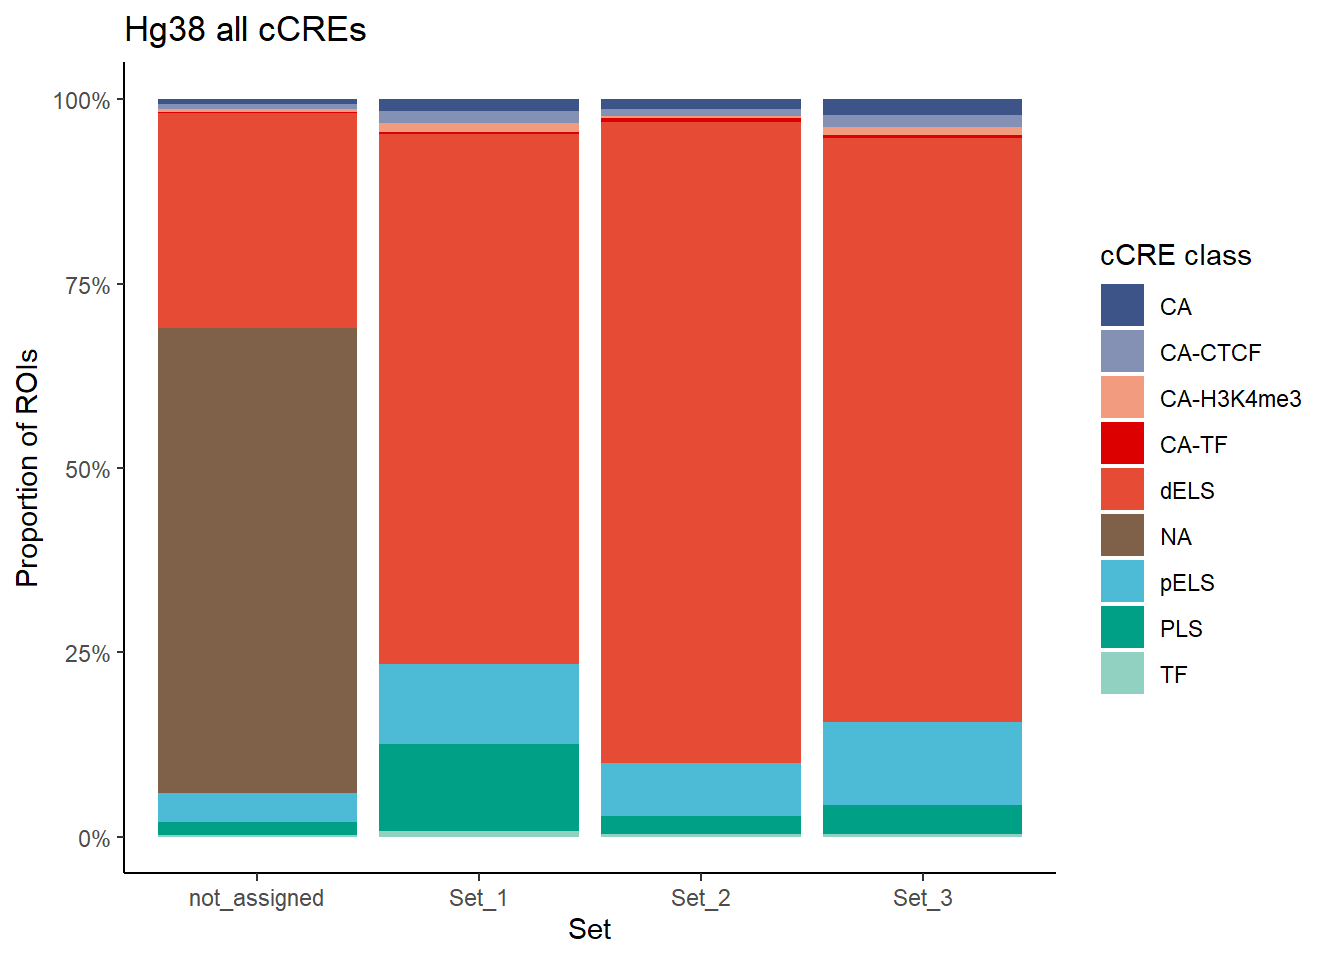
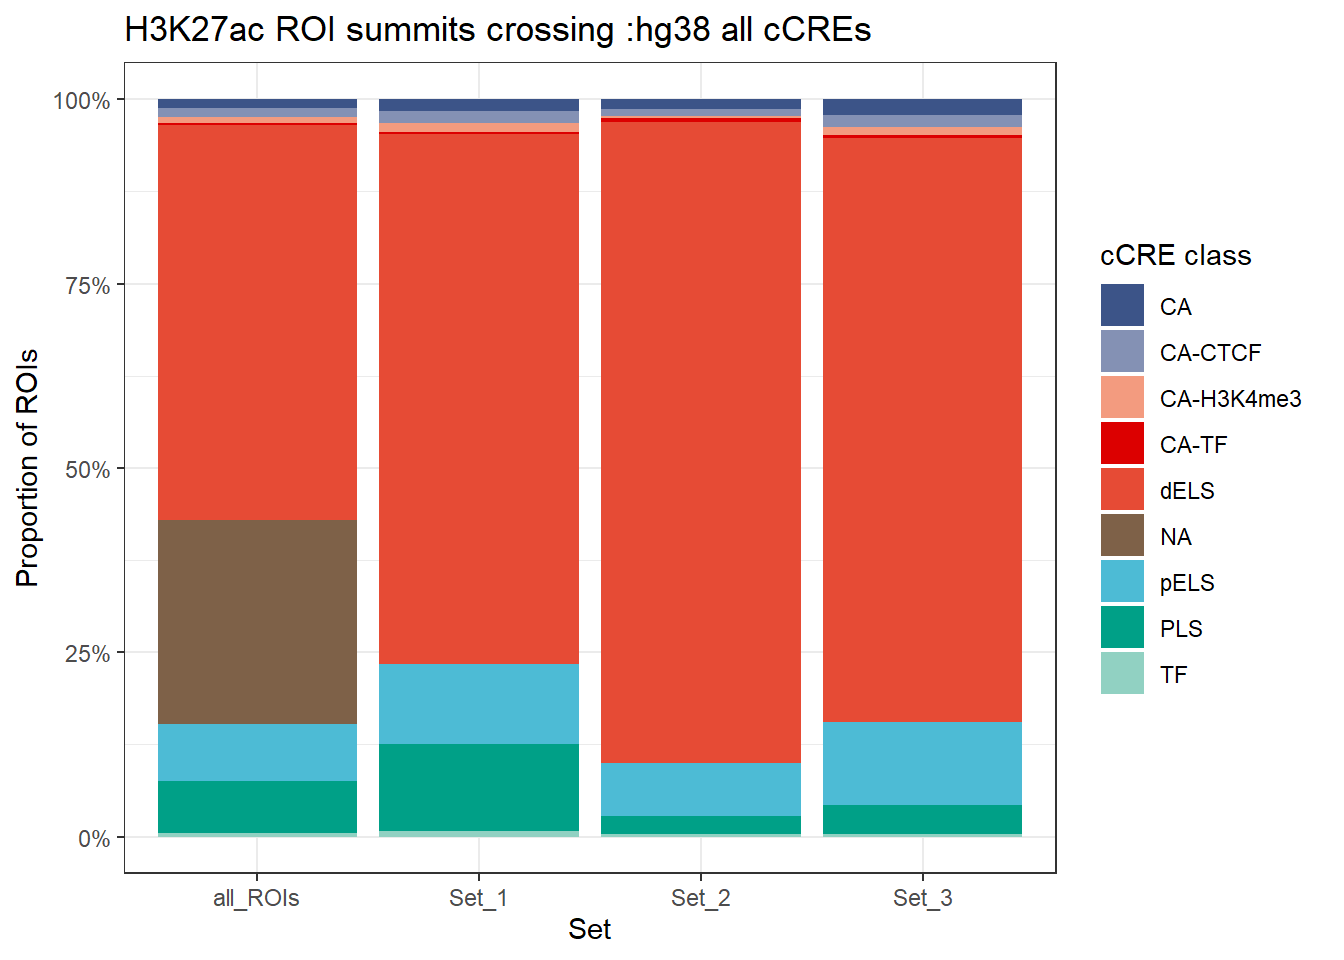
Build site.

diff --git a/docs/H3K27ac_cisRE.html b/docs/H3K27ac_cisRE.html
@@ -521,15 +521,15 @@ project makes it easier to run your code on other machines.</p>
 <div class="panel panel-default">
 <div class="panel-heading">
 <p class="panel-title">
-<a data-toggle="collapse" data-parent="#workflowr-checks" href="#strongRepositoryversionstrongahrefhttpsgithubcomreneeisnowhereDXRcontinuetreeea3b358831f4c899f4fc6917f5c2909b8e350921targetblankea3b358a">
+<a data-toggle="collapse" data-parent="#workflowr-checks" href="#strongRepositoryversionstrongahrefhttpsgithubcomreneeisnowhereDXRcontinuetree8d883d6e27c257b00c3ef9e46f101aae8c479e5etargetblank8d883d6a">
 <span class="glyphicon glyphicon-ok text-success"
 aria-hidden="true"></span> <strong>Repository version:</strong>
-<a href="https://github.com/reneeisnowhere/DXR_continue/tree/ea3b358831f4c899f4fc6917f5c2909b8e350921" target="_blank">ea3b358</a>
+<a href="https://github.com/reneeisnowhere/DXR_continue/tree/8d883d6e27c257b00c3ef9e46f101aae8c479e5e" target="_blank">8d883d6</a>
 </a>
 </p>
 </div>
 <div
[2 lines of base64/hex data omitted]
 class="panel-collapse collapse">
 <div class="panel-body">
 <p>
@@ -539,7 +539,7 @@ reproducibility.
 </p>
 <p>
 The results in this page were generated with repository version
-<a href="https://github.com/reneeisnowhere/DXR_continue/tree/ea3b358831f4c899f4fc6917f5c2909b8e350921" target="_blank">ea3b358</a>.
+<a href="https://github.com/reneeisnowhere/DXR_continue/tree/8d883d6e27c257b00c3ef9e46f101aae8c479e5e" target="_blank">8d883d6</a>.
 See the <em>Past versions</em> tab to see a history of the changes made
 to the R Markdown and HTML files.
 </p>
@@ -631,6 +631,40 @@ Message
 </tr>
 </thead>
 <tbody>
+<tr>
+<td>
+Rmd
+</td>
+<td>
+<a href="https://github.com/reneeisnowhere/DXR_continue/blob/8d883d6e27c257b00c3ef9e46f101aae8c479e5e/analysis/H3K27ac_cisRE.Rmd" target="_blank">8d883d6</a>
+</td>
+<td>
+reneeisnowhere
+</td>
+<td>
+2026-02-12
+</td>
+<td>
+wflow_publish("analysis/H3K27ac_cisRE.Rmd")
+</td>
+</tr>
+<tr>
+<td>
+html
+</td>
+<td>
+<a href="https://rawcdn.githack.com/reneeisnowhere/DXR_continue/cdf088cf1569d8a1d61842b5f0eac08f2f8f5b6d/docs/H3K27ac_cisRE.html" target="_blank">cdf088c</a>
+</td>
+<td>
+reneeisnowhere
+</td>
+<td>
+2026-02-12
+</td>
+<td>
+Build site.
+</td>
+</tr>
 <tr>
 <td>
 Rmd
@@ -772,10 +806,13 @@ H3K27ac_cre_df &lt;- tibble(
          cCRE_ID=if_else(is.na(cCRE_ID),&quot;NA&quot;,cCRE_ID),
          cCRE_class=if_else(is.na(cCRE_class),&quot;NA&quot;,cCRE_class))
 
-H3K27ac_cre_counts &lt;- H3K27ac_cre_anno %&gt;% 
+H3K27ac_cre_anno_full&lt;- H3K27ac_cre_anno %&gt;% rbind(H3K27ac_cre_anno %&gt;% mutate(cluster=&quot;all_ROIs&quot;))
+
+H3K27ac_cre_counts &lt;- H3K27ac_cre_anno_full %&gt;% 
   count(cluster, cCRE_class) %&gt;% 
   group_by(cluster) %&gt;% 
-  mutate(percent= n/sum(n))
+  mutate(percent= n/sum(n)) %&gt;% 
+  dplyr::filter(cluster != &quot;not_assigned&quot;)
 
  ggplot(H3K27ac_cre_counts, aes(x = cluster, y = percent, fill = cCRE_class)) +
   geom_col() +
@@ -785,9 +822,46 @@ H3K27ac_cre_counts &lt;- H3K27ac_cre_anno %&gt;%
     x = &quot;Set&quot;,
     fill = &quot;cCRE class&quot;
   ) +
-  theme_classic()+
-     ggtitle(&quot;Hg38 all cCREs&quot;)+scale_fill_cCREs()</code></pre>
+  theme_bw()+
+     ggtitle(&quot;H3K27ac ROI summits crossing :hg38 all cCREs &quot;)+scale_fill_cCREs()</code></pre>
 <p><img src="figure/H3K27ac_cisRE.Rmd/unnamed-chunk-3-1.png" width="672" style="display: block; margin: auto;" /></p>
+<p>
+<button type="button" class="btn btn-default btn-xs btn-workflowr btn-workflowr-fig" data-toggle="collapse" data-target="#fig-unnamed-chunk-3-1">
+Past versions of unnamed-chunk-3-1.png
+</button>
+</p>
+<div id="fig-unnamed-chunk-3-1" class="collapse">
+<div class="table-responsive">
+<table class="table table-condensed table-hover">
+<thead>
+<tr>
+<th>
+Version
+</th>
+<th>
+Author
+</th>
+<th>
+Date
+</th>
+</tr>
+</thead>
+<tbody>
+<tr>
+<td>
+<a href="https://github.com/reneeisnowhere/DXR_continue/blob/cdf088cf1569d8a1d61842b5f0eac08f2f8f5b6d/docs/figure/H3K27ac_cisRE.Rmd/unnamed-chunk-3-1.png" target="_blank">cdf088c</a>
+</td>
+<td>
+reneeisnowhere
+</td>
+<td>
+2026-02-12
+</td>
+</tr>
+</tbody>
+</table>
+</div>
+</div>
 <pre class="r"><code>SCREEN_heart_hg38_cCREs &lt;- import(
   &quot;data/Other_paper_data/SCREEN_LVHEART_F_53_ENCFF417JSF_ENCFF651XRK_ENCFF320IPT_ENCFF440RUS.bed&quot;,
   format = &quot;BED&quot;,
@@ -834,6 +908,43 @@ H3K27ac_heart_cre_anno &lt;- H3K27ac_anno_ROIs$all_H3K27ac %&gt;% as.data.frame(
   theme_classic()+
      ggtitle(&quot;Heart-left ventricle cCREs&quot;)+scale_fill_cCREs()</code></pre>
 <p><img src="figure/H3K27ac_cisRE.Rmd/heart%20cre%20plot-1.png" width="672" style="display: block; margin: auto;" /></p>
+<p>
+<button type="button" class="btn btn-default btn-xs btn-workflowr btn-workflowr-fig" data-toggle="collapse" data-target="#fig-no-spaces-heart-cre-plot-1">
+Past versions of "heart cre plot-1.png"
+</button>
+</p>
+<div id="fig-no-spaces-heart-cre-plot-1" class="collapse">
+<div class="table-responsive">
+<table class="table table-condensed table-hover">
+<thead>
+<tr>
+<th>
+Version
+</th>
+<th>
+Author
+</th>
+<th>
+Date
+</th>
+</tr>
+</thead>
+<tbody>
+<tr>
+<td>
+<a href="https://github.com/reneeisnowhere/DXR_continue/blob/cdf088cf1569d8a1d61842b5f0eac08f2f8f5b6d/docs/figure/H3K27ac_cisRE.Rmd/heart cre plot-1.png" target="_blank">cdf088c</a>
+</td>
+<td>
+reneeisnowhere
+</td>
+<td>
+2026-02-12
+</td>
+</tr>
+</tbody>
+</table>
+</div>
+</div>
 <pre class="r"><code># all.equal(SCREEN_heart_hg38_cCREs, SCREEN_hg38_cCREs)
 # 
 # identical(
